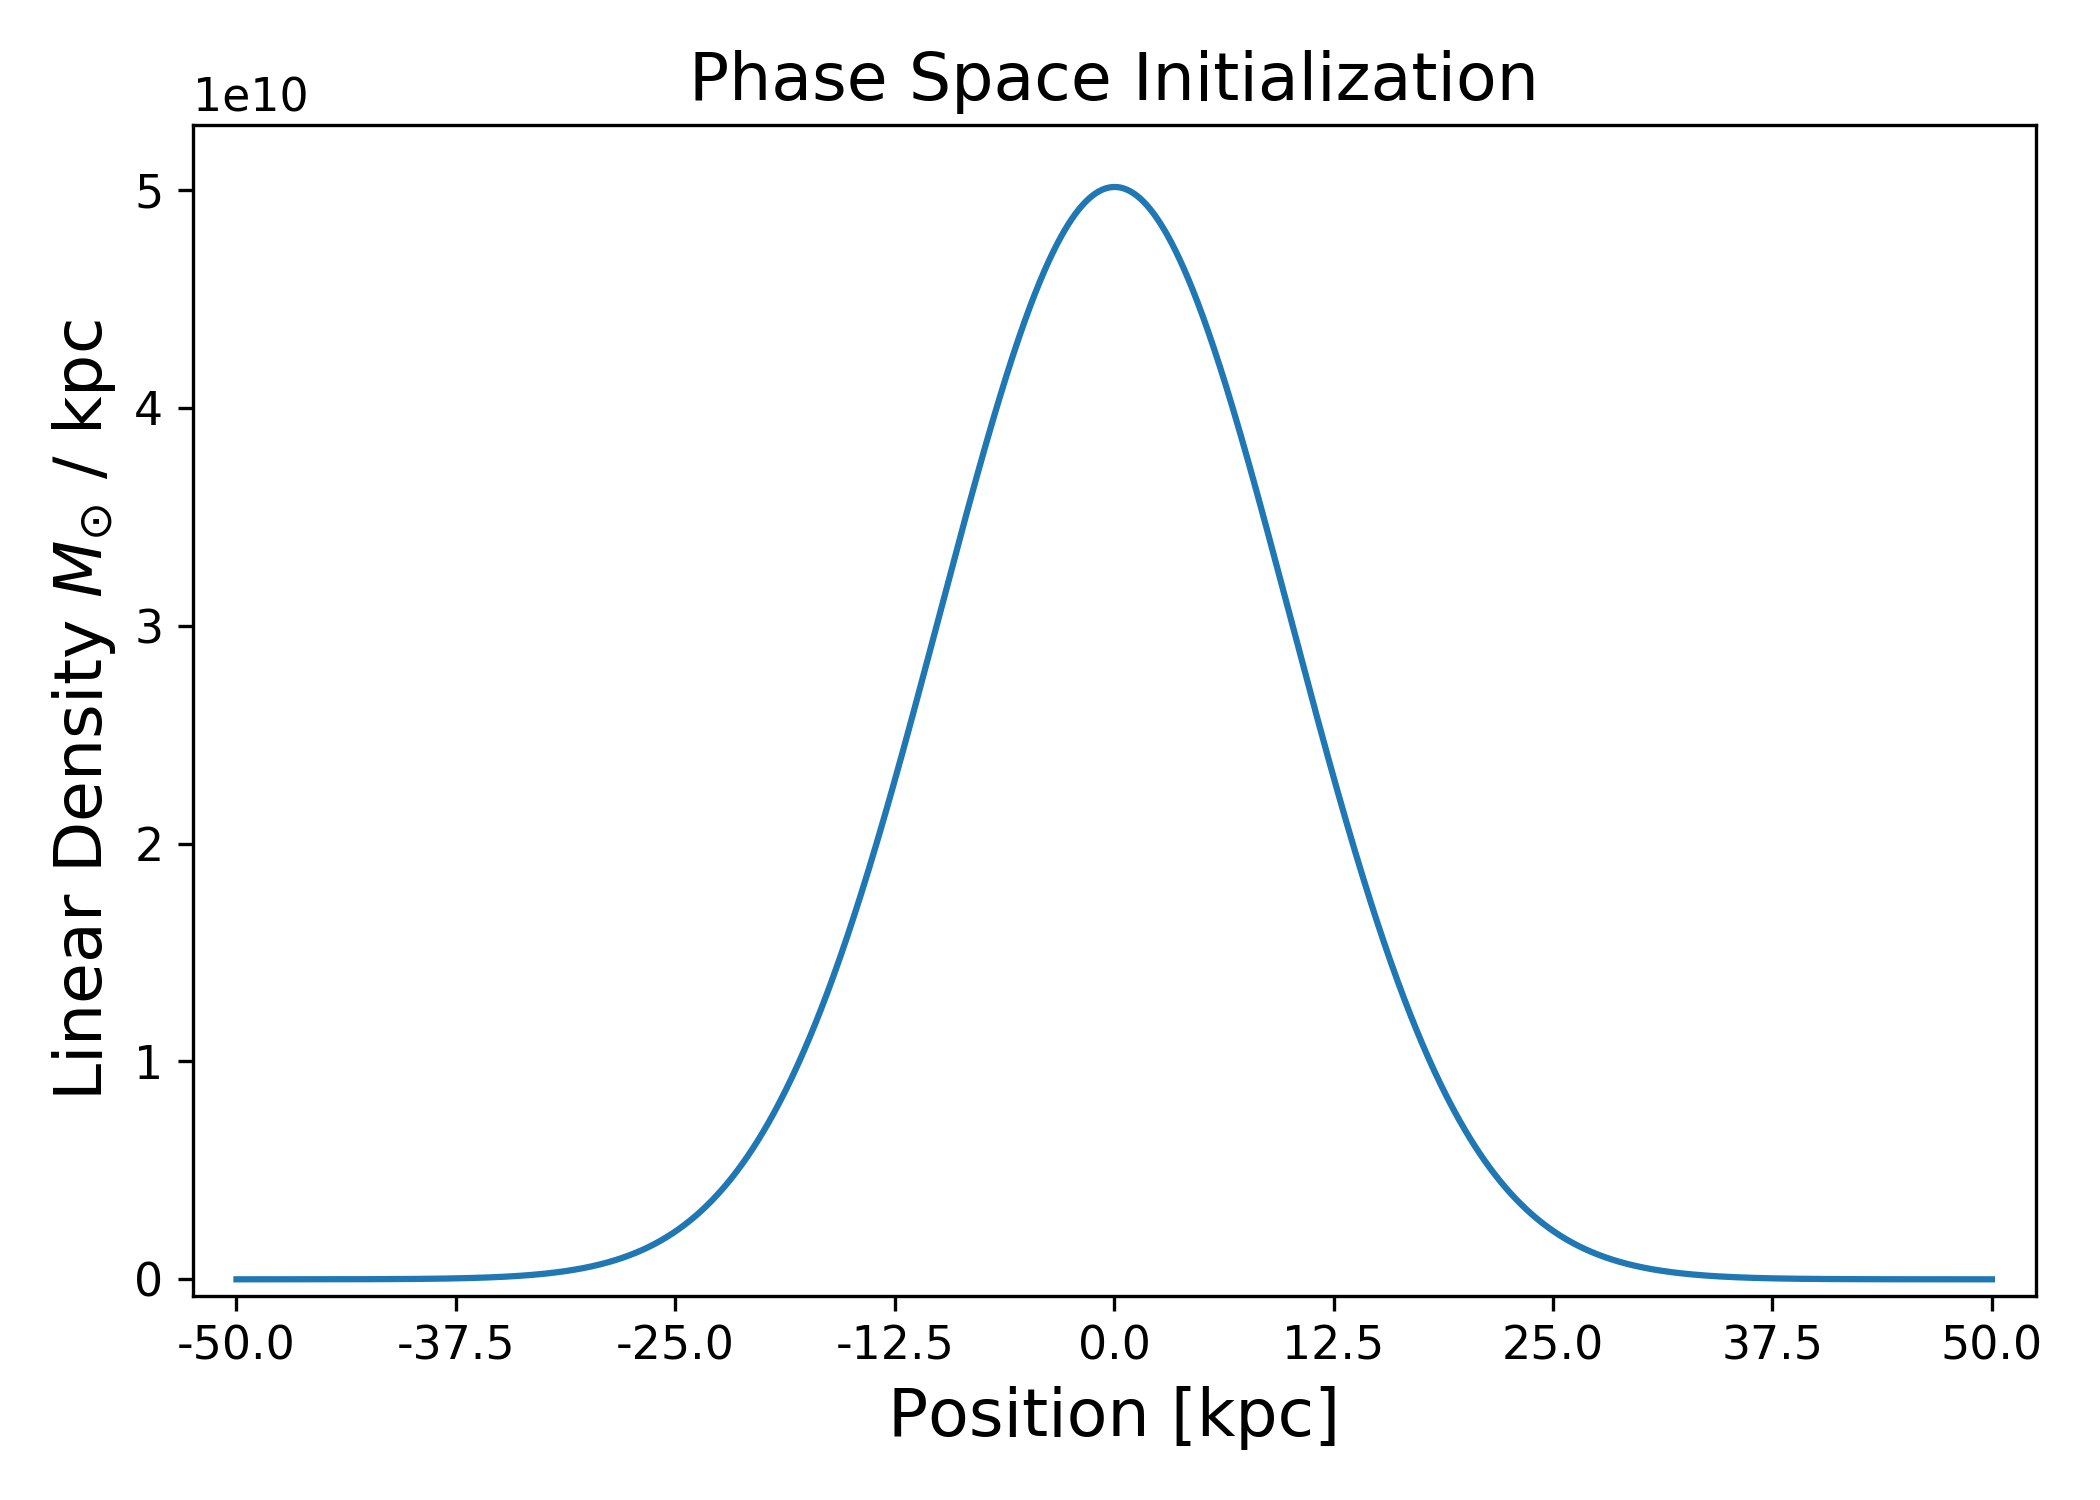
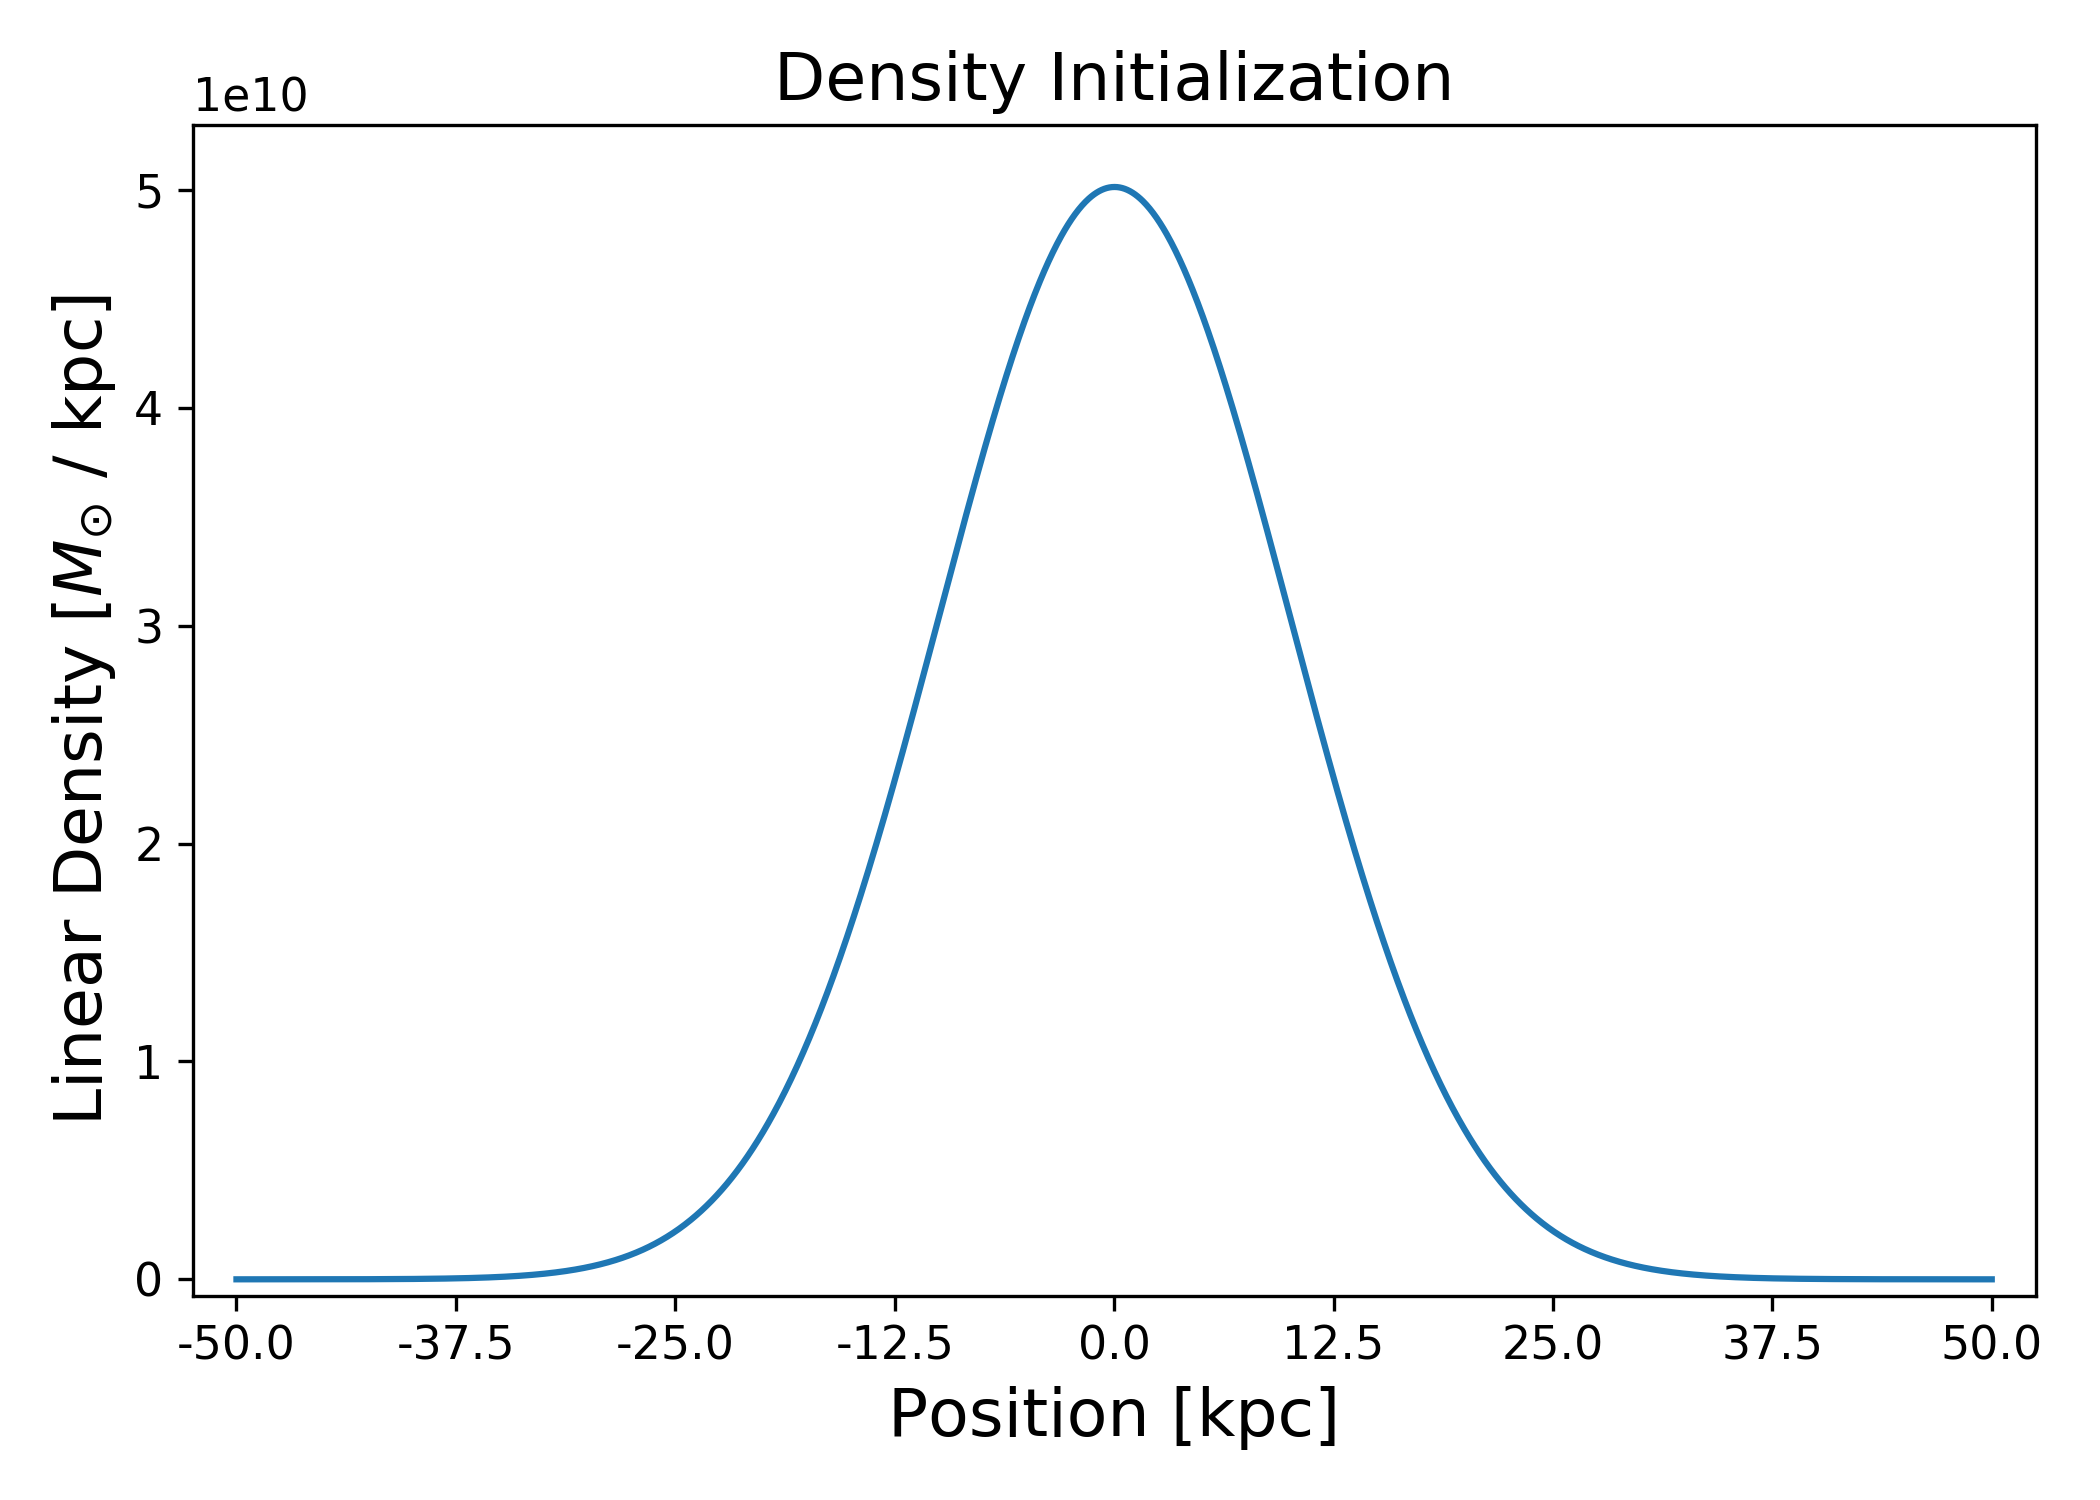
to Cluster

Changed region(s): [[0.3095, 0.0307, 0.7429, 0.092], [0.0, 0.3373, 0.0619, 0.7667], [0.031, 0.184, 0.0619, 0.2147]]

diff --git a/lastPython.py b/lastPython.py
@@ -43,36 +43,36 @@ potUnit = 1400318153625 #J/kg
 acceUnit = 9.0761782e-13 #km/s²
 
 
-#plt.imshow(dat, extent=[constantes[0],constantes[1],constantes[2],constantes[3]], interpolation='nearest', aspect='auto') #Es mucho más rápido imshow	
-#plt.yticks(plt.yticks()[0], [str(np.round(t*velUnit)) for t in plt.yticks()[0]]) 
-#plt.ylabel("Velocity [km/s]",fontsize=fsize)
-#plt.xticks(plt.xticks()[0], [str(t*estUnit) for t in plt.xticks()[0]])
-#plt.xlabel("Position [kpc]", fontsize=fsize)
-#plt.title("Phase Space Initialization",fontsize=fsize)        
-#plt.clim(0,1e5)
-#cbar = plt.colorbar(format=ticker.FuncFormatter(fmt))
-#cbar.set_label("Mass density [$M_{\odot}$ / kpc  $\\frac{km}{s}$]",fontsize=fsize+1)
-#plt.savefig("1dInitPS.png", dpi = dpII)
-#plt.clf()
-#
-#
-#
-#
-#
-#
-#
-#dens = np.loadtxt("./datFiles/density{:d}.dat".format(0))    
-#plt.plot(x,dens)
-#plt.xticks(plt.xticks()[0], [str(t*estUnit) for t in plt.xticks()[0]])
-#plt.xlabel("Position [kpc]",fontsize=fsize)
-#plt.ylabel("Linear Density $M_{\odot}$ / kpc",fontsize=fsize)
-#plt.title("Density Initialization",fontsize=fsize)        
-#plt.ylim(-0.75e9,5.3e10)
-#plt.xlim(-1.05,1.05)
-#
-#plt.savefig("1dInitDens.png", dpi = dpII)
-#plt.clf()
-#    
+plt.imshow(dat, extent=[constantes[0],constantes[1],constantes[2],constantes[3]], interpolation='nearest', aspect='auto') #Es mucho más rápido imshow	
+plt.yticks(plt.yticks()[0], [str(np.round(t*velUnit)) for t in plt.yticks()[0]]) 
+plt.ylabel("Velocity [km/s]",fontsize=fsize)
+plt.xticks(plt.xticks()[0], [str(t*estUnit) for t in plt.xticks()[0]])
+plt.xlabel("Position [kpc]", fontsize=fsize)
+plt.title("Phase Space Initialization",fontsize=fsize)        
+plt.clim(0,1e5)
+cbar = plt.colorbar(format=ticker.FuncFormatter(fmt))
+cbar.set_label("Mass density [$M_{\odot}$ / kpc  $\\frac{km}{s}$]",fontsize=fsize+1)
+plt.savefig("1dInitPS.png", dpi = dpII)
+plt.clf()
+
+
+
+
+
+
+
+dens = np.loadtxt("./datFiles/density{:d}.dat".format(0))    
+plt.plot(x,dens)
+plt.xticks(plt.xticks()[0], [str(t*estUnit) for t in plt.xticks()[0]])
+plt.xlabel("Position [kpc]",fontsize=fsize)
+plt.ylabel("Linear Density [$M_{\odot}$ / kpc]",fontsize=fsize)
+plt.title("Density Initialization",fontsize=fsize)        
+plt.ylim(-0.75e9,5.3e10)
+plt.xlim(-1.05,1.05)
+
+plt.savefig("1dInitDens.png", dpi = dpII)
+plt.clf()
+    
 
 
 
@@ -84,23 +84,24 @@ plt.ylabel("Potential [J /kg]",fontsize=fsize)
 plt.title("Potential at t=0".format(TAU),fontsize=fsize)
 #plt.ylim(-6.6e10,-5.8e10)
 plt.xticks(plt.xticks()[0], [str(t*estUnit) for t in plt.xticks()[0]])
-#plt.yticks(plt.yticks()[0], [str(np.round(t*potUnit)) for t in plt.yticks()[0]]) 
-plt.yticks(plt.yticks()[0], [fmt(np.round(t*potUnit),1) for t in plt.yticks()[0]]) 
+#plt.yticks(plt.yticks()[0], [fmt(np.round(t*potUnit),1) for t in plt.yticks()[0]]) 
 plt.xlabel("Position [kpc]",fontsize=fsize)
 plt.savefig("1dInitPot.png", dpi = dpII)
+plt.xlim(-1.05,1.05)
 plt.clf()
 
 
 acce = np.loadtxt("./datFiles/acce{:d}.dat".format(0))
 plt.plot(x,acce)
-plt.ylabel("Acceleration [km / $s^2$]",fontsize=fsize)
+plt.ylabel("Acceleration [kpc / Gy$^2$]",fontsize=fsize)
 plt.title("Acceleration at t=0".format(TAU),fontsize=fsize)
 #plt.yticks(plt.yticks()[0], [str(t*2754463327) for t in plt.yticks()[0]])
 plt.xticks(plt.xticks()[0], [str(t*estUnit) for t in plt.xticks()[0]])
-plt.yticks(plt.yticks()[0], [fmt(t*acceUnit,1) for t in plt.yticks()[0]]) 
+#plt.yticks(plt.yticks()[0], [fmt(t*acceUnit,1) for t in plt.yticks()[0]]) 
 plt.ylim(np.min(acce)*1.1,np.max(acce)*1.1)
 
 plt.xlabel("Position [kpc]",fontsize=fsize)
+plt.xlim(-1.05,1.05)
 plt.savefig("1dInitAcce.png", dpi = dpII)
 #plt.clf()
 

diff --git a/simPlots.py b/simPlots.py
@@ -62,11 +62,12 @@ for i in range(int(constantes[6])):
     plt.xticks(plt.xticks()[0], [str(t*estUnit) for t in plt.xticks()[0]])
     plt.xlabel("Position [kpc]",fontsize=fsize)
     if(constantes[7] == JEANS):
-        plt.title("Jeans Instability $\\tau =$ {:d}".format(TAU),fontsize=fsize)
+#        plt.title("Jeans Instability $\\tau =$ {:d}".format(TAU),fontsize=fsize)
+        plt.title("Phase Space Density $t =$ {:.2f} ut".format(i*dt),fontsize=fsize)
     elif(constantes[7] == GAUSS):
         #plt.title("Gaussian Initialization $\\tau =$ {:d}".format(TAU),fontsize=fsize)
         plt.title("Phase Space Density $t =$ {:.2f} ut".format(i*dt),fontsize=fsize)
-    plt.clim(0,1.3e5) #Gauss
+    plt.clim(0,1.1e5) #Gauss
     cbar = plt.colorbar(format=ticker.FuncFormatter(fmt))
     cbar.set_label("Mass density [$M_{\odot}$ / kpc  $\\frac{km}{s}$]",fontsize=fsize)
     plt.savefig("./images/phase{:d}.png".format(i), dpi = dpII)
@@ -77,10 +78,10 @@ for i in range(int(constantes[6])):
     plt.plot(x,dens)
     plt.xticks(plt.xticks()[0], [str(t*estUnit) for t in plt.xticks()[0]])
     plt.xlabel("Position [kpc]",fontsize=fsize)
-    plt.ylabel("Linear Density $10^12 M_{\odot}$/kpc",fontsize=fsize)
+    plt.ylabel("Linear Density [$M_{\odot}$ / kpc]",fontsize=fsize)
     #plt.title("Density $\\tau =$ {:d}".format(TAU),fontsize=fsize)
     plt.title("Density $t =$ {:.2f} ut".format(i*dt),fontsize=fsize)
-    #plt.ylim(-0.75e9,6e10) #  Gauss
+    plt.ylim(-0.75e9,6e10)#Gauss
     plt.xlim(-1.1,1.1)
     plt.savefig("./images/density{:d}.png".format(i), dpi = dpII)
     plt.clf()
@@ -92,9 +93,9 @@ for i in range(int(constantes[6])):
     plt.xlim(-1.1,1.1)
     plt.title("Potential $t =$ {:.2f} ut".format(i*dt),fontsize=fsize)
     #plt.title("Potential $\\tau =$ {:d}".format(TAU),fontsize=fsize)
-#    plt.ylim(-1.5e11,1.1e11) #	gauss
+    plt.ylim(-1.5e11,1.1e11)#Gauss
     plt.xticks(plt.xticks()[0], [str(t*estUnit) for t in plt.xticks()[0]])
-#    plt.yticks(plt.yticks()[0], [fmt(t*potUnit,1) for t in plt.yticks()[0]]) 
+   # plt.yticks(plt.yticks()[0], [fmt(t*potUnit,1) for t in plt.yticks()[0]]) 
     plt.xlabel("Position [kpc]",fontsize=fsize)
     plt.savefig("./images/potential{:d}.png".format(i), dpi = dpII)
     plt.clf()
@@ -102,12 +103,12 @@ for i in range(int(constantes[6])):
     
     acce = np.loadtxt("./datFiles/acce{:d}.dat".format(i))
     plt.plot(x,acce)
-    plt.ylabel("Acceleration [km / $s^2$]",fontsize=fsize)
+    plt.ylabel("Acceleration [kpc / Gy$^2$]",fontsize=fsize)
     #plt.title("Acceleration $\\tau =-\\infty$",fontsize=fsize)
-#    plt.ylim(-0.009,0.009)	#Gauss
+#    plt.ylim(-0.009,0.009)#Gauss
     plt.xlim(-1.1,1.1) 
     plt.xticks(plt.xticks()[0], [str(t*estUnit) for t in plt.xticks()[0]])
-#    plt.yticks(plt.yticks()[0], [fmt(t*acceUnit,1) for t in plt.yticks()[0]]) 
+    #plt.yticks(plt.yticks()[0], [fmt(t*acceUnit,1) for t in plt.yticks()[0]]) 
 #    plt.ylim(np.min(acce)*1.1,np.max(acce)*1.1)
     plt.title("Acceleration $t =$ {:.2f} ut".format(i*dt),fontsize=fsize)
     plt.xlabel("Position [kpc]",fontsize=fsize)

diff --git a/simulacion.c b/simulacion.c
@@ -130,7 +130,7 @@ int main()
     
     //Variable que elige condición a simular.
     initCon = GAUSS;
-    initCon = JEANS;
+    //initCon = JEANS;
     
     printConstant("InitCon", initCon);
     printConstant("TAU", TAU);
@@ -143,9 +143,10 @@ int main()
     //Jeans
     double rho = 10;
     double sigma = 0.1;
-    //double A = 0.9999;
-    double A = 0.001;
-    double k = 0.5;
+    double A = 0.9999;
+    //double A = 0.001;
+    double k = 2*PI;
+    //double k = 0.5*PI;
     
     
 	for(i=0;i<Nx;i+=1) {
@@ -175,7 +176,7 @@ int main()
 	printDensity("./datFiles/density0.dat");
 
 	FILE *simInfo = fopen("./images/simInfo.dat","w+");
-	printf("heh\n");
+	//printf("heh\n");
 	fprintf(simInfo,"Para la simulación se utilizó las siguientes condiciones:\n");
 	fprintf(simInfo,"x va de %.2f a %.2f , v va de %.2f a %.2f\n", Xmin,Xmax,Vmin,Vmax);
 	if(initCon == GAUSS)
@@ -262,12 +263,14 @@ int main()
     tacce -=tiempo0;
     
     Nt= 1;
-	
+
+    /*
     printf("tiempo en la integral de densidad: %f s\n", 1.0*tdens/Nt/CLOCKS_PER_SEC);
     printf("tiempo en el cálculo del potencial: %f s\n", 1.0*tpot/Nt/CLOCKS_PER_SEC);
     printf("tiempo en el cálculo de la aceleración: %f s\n", 1.0*tacce/Nt/CLOCKS_PER_SEC);
     printf("tiempo en el step: %f s\n", 1.0*tstep/Nt/CLOCKS_PER_SEC);
     printf("tiempo total de cálculos en la ejecución: %f s\n", 1.0*(tstep + tdens + tpot + tacce)/Nt/CLOCKS_PER_SEC);
+    */
 	fclose(constantes);
 	fclose(simInfo);
 	return 0;
@@ -466,7 +469,7 @@ void printAcce(char *name)
 {
 	FILE *output = fopen(name, "w+");
 	for(i=0;i<Nx;i+=1) {
-            fprintf(output, "%f\n",convertir(acce[i], aKpc)/pow(convertir(1.0, aByear)*1000,2)); //Imprime en kpc / s^2;
+            fprintf(output, "%f\n",convertir(acce[i], aKpc)/pow(convertir(1.0, aByear)*1000,2)); //Imprime en kpc / (mAños)^2;
 			}
 	fclose(output);
 }
@@ -476,7 +479,7 @@ void printPot(char *name)
 {
 	FILE *output = fopen(name, "w+");
 	for(i=0;i<Nx;i+=1) {
-            fprintf(output, "%f\n",pow(convertir(pot[i], aMetros)/convertir(1.0, aSegundos),2)/pot[i]);
+            fprintf(output, "%f\n",pow(convertir(pot[i], aMetros)/convertir(1.0, aSegundos),2)/pot[i]); //Imprime potencial en J/kg
 			}
 	fclose(output);
 }

diff --git a/simPlots3D.py b/simPlots3D.py
@@ -33,8 +33,8 @@ def darV(i):
 
 def fastShow(image, title="none",clim=None, clabel=None, saveN=None):
     plt.clf()
-    plt.imshow(image,extent=[constantes[0],constantes[3],constantes[0],constantes[3]],norm=matplotlib.colors.LogNorm(vmin = clim[0], vmax = clim[1]), interpolation='nearest', aspect='auto')
-#    plt.imshow(image,extent=[constantes[0],constantes[3],constantes[0],constantes[3]],interpolation='nearest', aspect='auto')
+#    plt.imshow(image,extent=[constantes[0],constantes[3],constantes[0],constantes[3]],norm=matplotlib.colors.LogNorm(vmin = clim[0], vmax = clim[1]), interpolation='nearest', aspect='auto')
+    plt.imshow(image,extent=[constantes[0],constantes[3],constantes[0],constantes[3]],norm=matplotlib.colors.PowerNorm(0.3),interpolation='nearest', aspect='auto')
     cbar = plt.colorbar()
     if(clim != None):
         #plt.clim(clim[0],clim[1])

diff --git a/simulacion3D.c b/simulacion3D.c
@@ -69,7 +69,7 @@ Simulación del espacio de fase de un fluido tridimensional de Materia Oscura co
 
 //Aspectos temporales de la ejecución.
 double dt = 0.5;
-int Nt = 20;
+int Nt = 100;
 
 //Arreglos
 double *phase;
